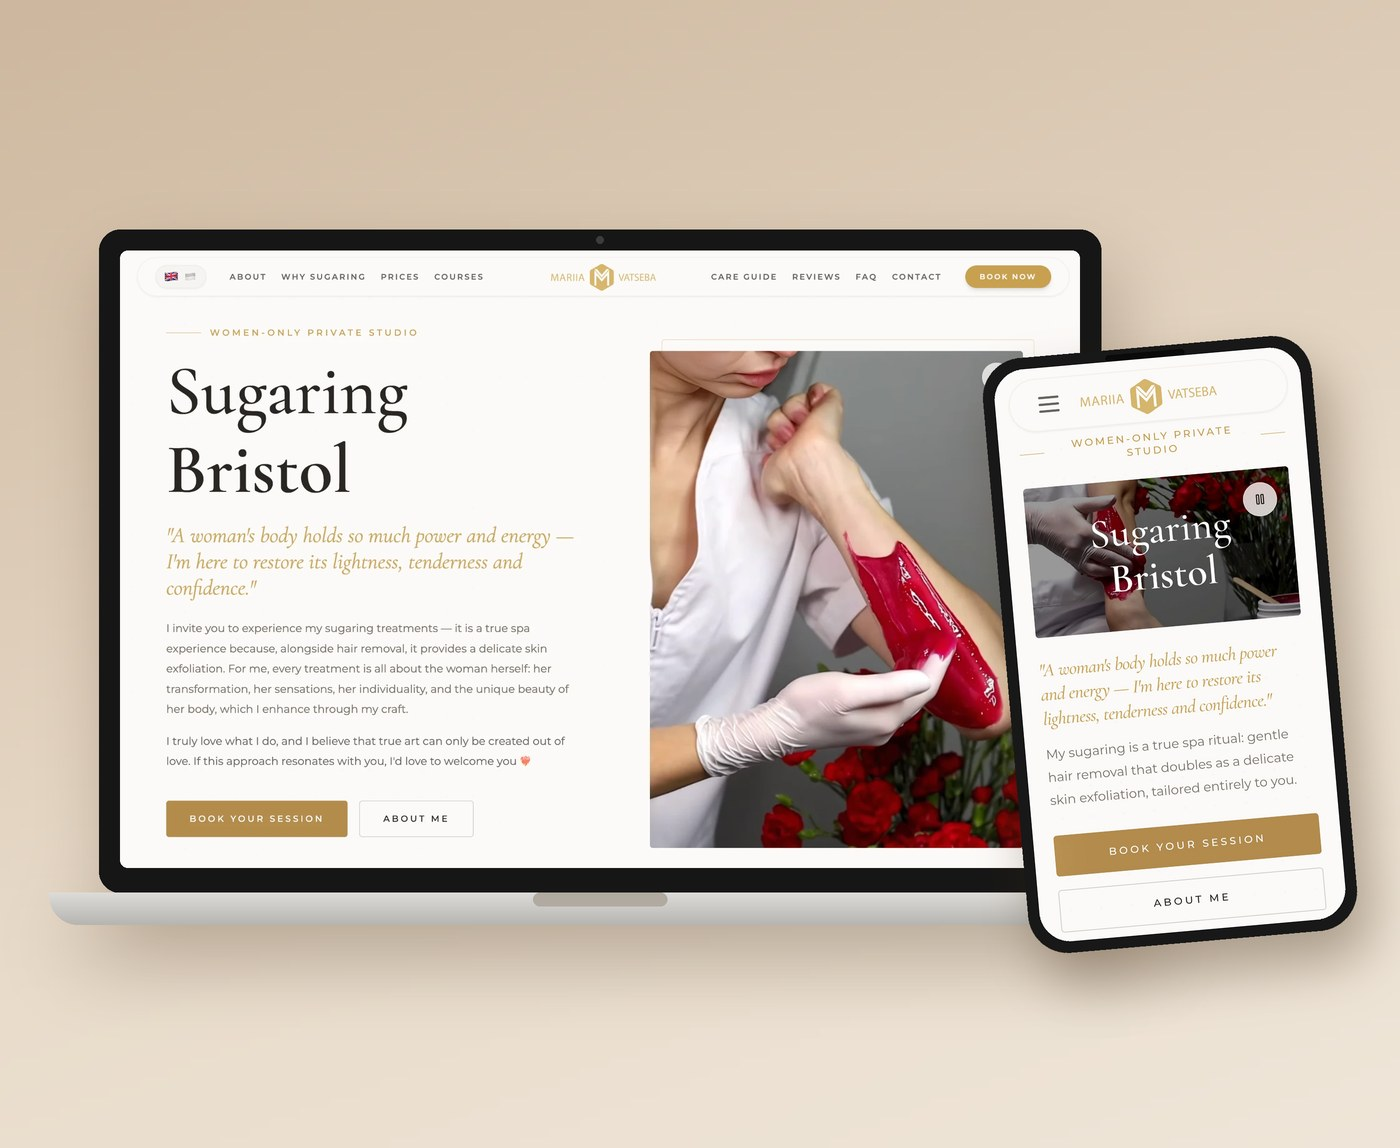
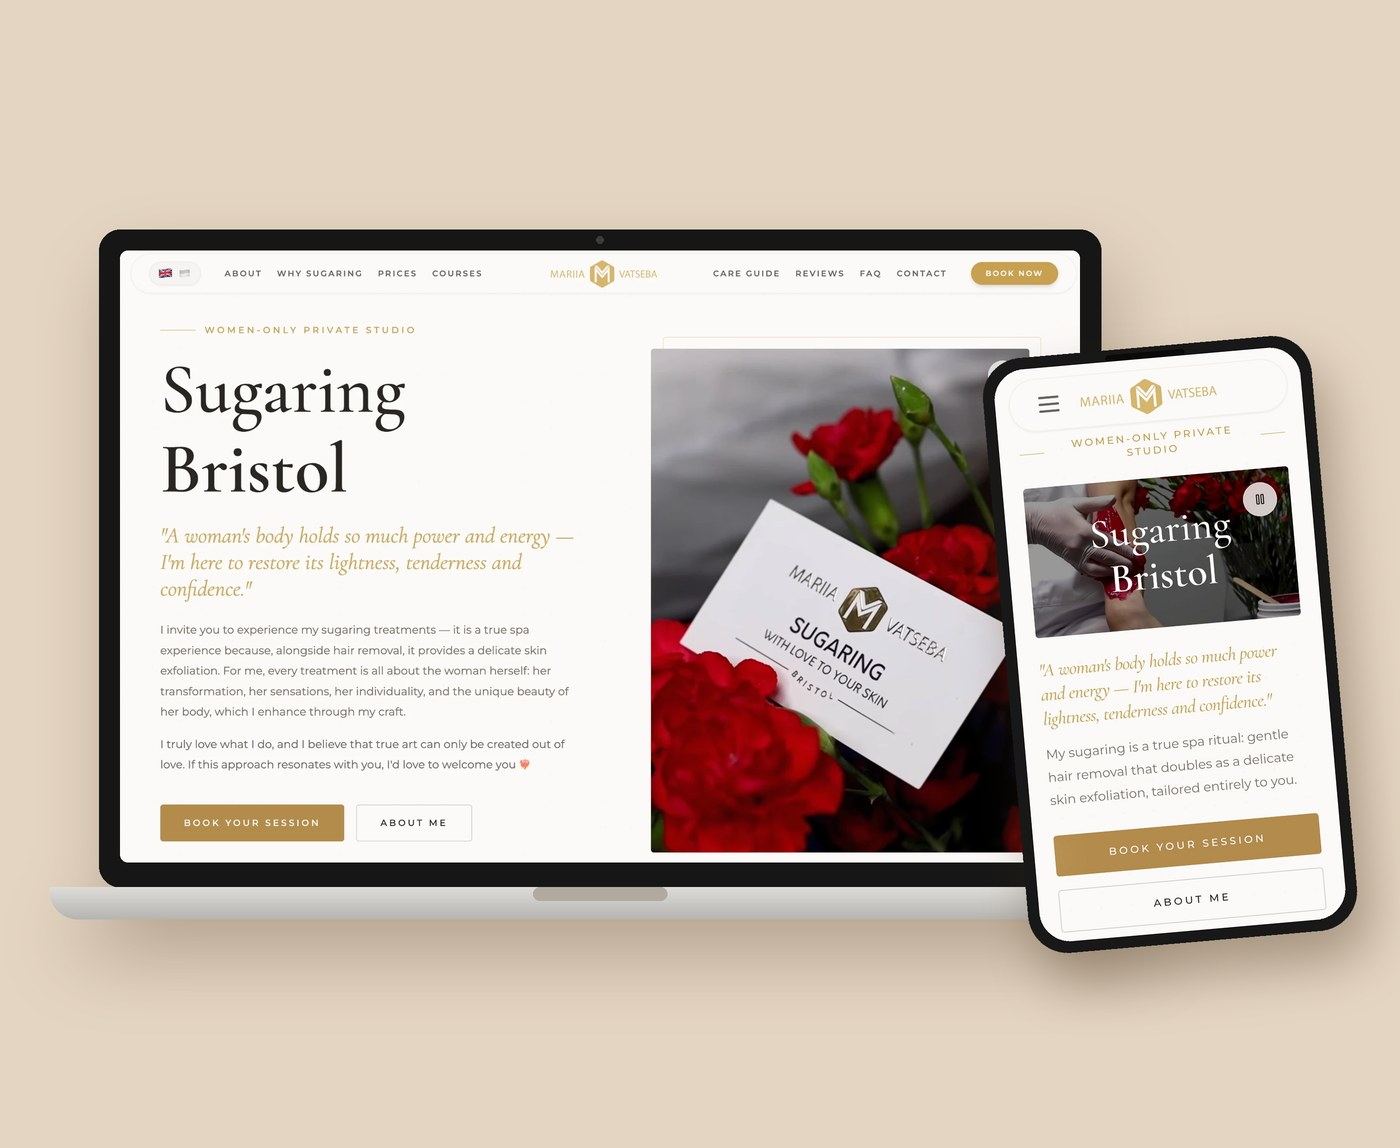
Project covers: new Mariia desktop shot (business card hero) and flat, gradient-free backgrounds for both covers
Claude-Session: https://claude.ai/code/session_01PCNcapyyAUFafpSPKroWii

diff --git a/site.css b/site.css
@@ -130,9 +130,9 @@ a { color: inherit; }
 .mini-photo-pink { background: radial-gradient(ellipse 40% 36% at 50% 55%, #f3c9c2 0 60%, transparent 62%), radial-gradient(ellipse 20% 30% at 35% 40%, #f0b8b3 0 60%, transparent 62%), radial-gradient(ellipse 22% 28% at 65% 42%, #f0b8b3 0 60%, transparent 62%), linear-gradient(150deg, #f9d9d4, #f2bdbb); }
 .mini-photo-coffee { background: radial-gradient(ellipse 30% 38% at 50% 58%, rgba(255,255,255,.65) 0 56%, transparent 58%), radial-gradient(ellipse 26% 22% at 50% 70%, #b97a42 0 60%, transparent 62%), linear-gradient(160deg, #3c2c20, #7a5a3c); }
 
-.scene-tablet { background: linear-gradient(160deg, #cdb79e, #e9dccb 60%, #efe6d9); }
+.scene-tablet { background: #e4d5c2; }
 .tablet { left: 7%; top: 12%; width: 78%; transform: perspective(1100px) rotateY(9deg) rotateX(4deg) rotateZ(-9deg); background: #1c1c1c; padding: 2.2%; border-radius: 14px; filter: drop-shadow(0 16px 16px rgba(60,38,20,.3)); aspect-ratio: 1.38; }
-.scene-pink { background: linear-gradient(150deg, #6c775b, #59634b 55%, #485139); }
+.scene-pink { background: #59634b; }
 .card-mock { left: 8%; top: 10%; width: 82%; background: #fceae5; border-radius: 12px; padding: 1.2%; box-shadow: 0 18px 30px rgba(120,40,60,.22); transform: rotate(-1.5deg); aspect-ratio: 1.42; }
 .card-mock .mini-nav { padding-top: 3.6cqw; } .card-mock .mini-body { padding-top: 4cqw; }
 .petal { position: absolute; border-radius: 50%; background: radial-gradient(circle at 40% 35%, #fbd2dc, #ee93ae 70%); box-shadow: 0 4px 10px rgba(150,50,80,.25); }
